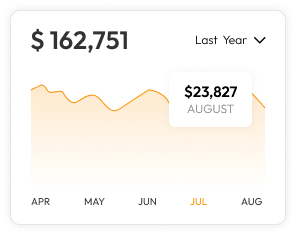
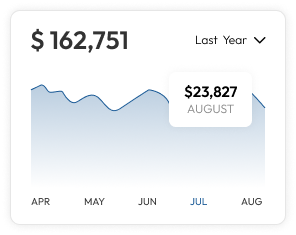
fix ui isse

Changed region(s): [[0.0912, 0.3574, 0.9122, 0.6553], [0.6385, 0.834, 0.6993, 0.8936]]

diff --git a/src/app/(website)/common/Footer/WebFooter.tsx b/src/app/(website)/common/Footer/WebFooter.tsx
@@ -7,17 +7,35 @@ import { cn } from '@core/utils/class-names';
 import NewsLetter from '@web-components/forms/NewsLetter';
 import FooterTop from './FooterTop';
 import footer_brand_logo from '../../../../../public/assets/brand_logo.png';
+import footer_bg from '../../../../../public/assets/footer_img.png';
+import arrow_white from '../../../../../public/assets/icons/arrow_white.png';
 import CldImage from '../../components/CloudinaryImageComponent';
+import InputField from '../../components/UI/InputField';
+import { useState } from 'react';
 // import dynamic from "next/dynamic";
 
 // const NewsLetter = dynamic(() => import("@/forms/NewsLetter"), {
 //   loading: () => <p>Loading...</p>,
 // });
 // #1B5A96
+
 const WebFooter = () => {
+  const [inputVal, setInputVal] = useState({ email: '' });
+  const handleChange = (e: any) => {
+    const { name, value } = e.target;
+    setInputVal({ ...inputVal, [name]: value });
+  };
   return (
     <>
-      <footer className="font- bg-footer-gradient py-12 text-white">
+      <footer className="relative py-12 text-white">
+        {/* Background Image */}
+        <Image
+          src={footer_bg}
+          alt="Footer background"
+          fill
+          priority
+          className="-z-10 object-cover"
+        />
         <MaxWidthWrapper className="px-4">
           <div
             className={cn(
@@ -27,7 +45,7 @@ const WebFooter = () => {
             <FooterTop />
           </div>
 
-          <div className="mx-auto grid grid-cols-1 gap-5 border-t pt-6 md:grid-cols-12">
+          <div className="mx-auto grid grid-cols-1 gap-5 border-t-[0.21px] border-[#FFFFFF]/50 pt-6 md:grid-cols-12">
             <div className="col-span-12 lg:col-span-4">
               <Link href="/">
                 <Image
@@ -38,7 +56,7 @@ const WebFooter = () => {
                   priority
                 />
               </Link>
-              <p className="mt-6 text-white">
+              <p className="mt-6 font-poppins text-xs font-normal text-[#FFFFFF]">
                 AdAired Digital Media is a digital marketing company located in
                 Mohali. We are a team of marketing and design experts who are
                 committed to your online growth.{' '}
@@ -49,7 +67,7 @@ const WebFooter = () => {
                     href={process.env.NEXT_PUBLIC_FACEBOOK_URL || '/'}
                     className="group/fb hover:bg-theme-orange rounded-full bg-white p-2"
                   >
-                    <Icons.Facebook className="text-[#1B5A96] group-hover/fb:text-white" />
+                    <Icons.Facebook className="text-[#1B5A96] group-hover/fb:text-[#FB9100]" />
                     <span className="sr-only">
                       Visit Adaired Digital &apos; s Facebook page
                     </span>
@@ -58,7 +76,7 @@ const WebFooter = () => {
                     href={process.env.NEXT_PUBLIC_TWITTER_URL || '/'}
                     className="group/x hover:bg-theme-orange rounded-full bg-white p-2"
                   >
-                    <Icons.Twitter className="text-[#1B5A96] group-hover/x:text-white" />
+                    <Icons.Twitter className="text-[#1B5A96] group-hover/x:text-[#FB9100]" />
                     <span className="sr-only">
                       Visit Adaired Digital &apos; s Facebook page
                     </span>
@@ -67,7 +85,7 @@ const WebFooter = () => {
                     href={process.env.NEXT_PUBLIC_INSTAGRAM_URL || '/'}
                     className="group/insta hover:bg-theme-orange rounded-full bg-white p-2"
                   >
-                    <Icons.Instagram className="text-[#1B5A96] group-hover/insta:text-white" />
+                    <Icons.Instagram className="text-[#1B5A96] group-hover/insta:text-[#FB9100]" />
                     <span className="sr-only">
                       Visit Adaired Digital &apos; s Facebook page
                     </span>
@@ -76,7 +94,7 @@ const WebFooter = () => {
                     href={process.env.NEXT_PUBLIC_LINKEDIN_URL || '/'}
                     className="group/in hover:bg-theme-orange rounded-full bg-white p-2"
                   >
-                    <Icons.LinkedIn className="text-[#1B5A96] group-hover/in:text-white" />
+                    <Icons.LinkedIn className="text-[#1B5A96] group-hover/in:text-[#FB9100]" />
                     <span className="sr-only">
                       Visit Adaired Digital &apos; s Facebook page
                     </span>
@@ -192,7 +210,23 @@ const WebFooter = () => {
                 Share your email address to subscribe to Adaired&apos;s
                 newsletter.
               </p>
-              <NewsLetter />
+              {/* <NewsLetter /> */}
+              <div className="relative mt-4">
+                <InputField
+                  className="w-full !rounded-full bg-white text-[15px] font-[300]"
+                  name={'email'}
+                  value={inputVal.email}
+                  placeholder="Email Address"
+                  handleChange={handleChange}
+                />
+                <Image
+                  src={arrow_white}
+                  alt="Send"
+                  width={35}
+                  height={35}
+                  className="absolute right-2 top-1.5 cursor-pointer rounded-full bg-[#FB9100] p-1"
+                />
+              </div>
             </div>
             <div className="col-span-12 mt-6 lg:hidden">
               <h3 className="font text-lg font-semibold tracking-wide text-white lg:text-md">
@@ -254,11 +288,11 @@ const WebFooter = () => {
         </MaxWidthWrapper>
       </footer>
       <MaxWidthWrapper>
-        <div className="py- flex flex-col-reverse items-center justify-center bg-white text-center text-black md:flex-row md:justify-between">
-          <div className="font text-xs">
+        <div className="flex flex-col-reverse items-center justify-center bg-white py-4 text-center text-black md:flex-row md:justify-center">
+          <div className="font text-xxs">
             Copyright © {new Date().getFullYear()} - AdAired Digital Media
           </div>
-          <div className="font flex gap-5 py-2 text-xs sm:gap-1 sm:bg-transparent">
+          <div className="font flex gap-5 py-2 text-xxs sm:gap-1 sm:bg-transparent">
             <Link href="/terms-and-conditions">Terms & Conditions </Link>
             <span className="hidden sm:block">/</span>
             <div className="sm:hidden">

diff --git a/src/@core/data/website/Homepage.ts b/src/@core/data/website/Homepage.ts
@@ -181,11 +181,11 @@ export const CaseStudySectionData = {
 
 export const TestimonialSectionData = {
   image: 'Static Website Images/about_main_anwqk5',
-  subTitle: 'TESTIMONIAL',
-  title: 'What Our Clients Say',
-  span: 'Turns Businesses Into Brands',
+  subTitle: 'Testimonials',
+  title: 'What Our Clients Say About Us',
+  span: '',
   description:
-    'We’re a digital agency that transforms businesses into brands. With the perfect blend of strategy and creativity.',
+    'Hear directly from the brands we’ve worked with. Real feedback, real experiences, and real results, because nothing speaks louder than the words of satisfied clients.',
   testimonials: [
     {
       image: 'Static Website Images/homepage_about2',
@@ -472,7 +472,8 @@ export const AwardsSectionData = [
 export const ContactSectionData = {
   image: 'Static Website Images/contact_us_image',
   subTitle: 'READY TO GROW?',
-  title: 'Reach Us',
+  title: 'Ready to Grow Your Brand and ',
+  span:"Stay Ahead in the Digital World?",
   description:
     'Stay ahead in the digital world with our latest tips and practical strategies. From marketing trends to SEO insights, our blog helps you grow smarter and faster.',
   contactDetails: [

diff --git a/src/app/(website)/common/Heading/index.tsx b/src/app/(website)/common/Heading/index.tsx
@@ -32,17 +32,17 @@ const Heading = ({
           <div className="md:flex` w- block gap-3">
             <div className="flex justify-center">
               <div
-                className={` ${isBgWhite ? 'border-[#000000]/50 bg-[#FFFFFF]' : 'border-[#FFFFFF]/50 bg-[#FFFFFF]'} flex w-fit justify-center gap-3 rounded-full border-[0.71px] px-[1rem] py-[0.25rem]`}
+                className={` ${isBgWhite ? 'border-[#000000]/50 bg-[#FFFFFF]' : 'border-[#FFFFFF]/50 bg-transparent'} flex w-fit justify-center gap-3 rounded-full border-[0.71px] px-[1rem] py-[0.25rem]`}
               >
                 <Image
-                  src={isBgWhite ? star : blue_star}
+                  src={star}
                   width={18}
                   height={17}
                   alt=""
                   className="mb-auto"
                 />
                 <span
-                  className={`my-auto font-montserrat text-[12px] font-normal uppercase text-[#000000]`}
+                  className={`my-auto font-montserrat text-[12px] font-normal uppercase ${isBgWhite ? 'text-[#000000]' : 'text-[#FFFFFF]'}`}
                 >
                   {subTitle}
                 </span>

diff --git a/src/app/(website)/components/home/Contact.tsx b/src/app/(website)/components/home/Contact.tsx
@@ -14,7 +14,7 @@ import ContactForm from '../forms/ContactForm';
 import ContactPageForm from '../forms/ContactPageForm';
 
 const Contact = () => {
-  const { image, subTitle, title, description } = ContactSectionData;
+  const { image, subTitle, title, span, description } = ContactSectionData;
 
   const { ref, className } = useImageAnimation({
     direction: 'left',
@@ -28,7 +28,7 @@ const Contact = () => {
           <Heading
             subTitle={subTitle}
             title={title}
-            span={''}
+            span={span}
             description={description}
             isInCenter={true}
             isBgWhite={true}

diff --git a/src/app/(website)/components/HereComponent/Banner.tsx b/src/app/(website)/components/HereComponent/Banner.tsx
@@ -110,9 +110,9 @@ const Banner = () => {
             </span>
           </div>
           <p>
-            Offering a full-service, 360° digital strategy for your business,
-            helping you rise above the noise and claim your space in the digital
-            world.
+            And that’s where Adaired Digital Media comes in. Offering a
+            full-service, 360° digital strategy for your business, helping you
+            rise above the noise and claim your space in the digital world.
           </p>
           <SaveAndCancel
             name={'Get a Quote'}

diff --git a/src/app/(website)/components/home/About.tsx b/src/app/(website)/components/home/About.tsx
@@ -7,7 +7,7 @@ import Button from '../../common/Button';
 import img from '../../../../../public/assets/images/home/aboutus.png';
 import about_graph from '../../../../../public/assets/images/home/about_graph.png';
 import Mask from '../../../../../public/assets/images/home/Mask group.png';
-import check from '../../../../../public/assets/icons/check.png';
+import check from '../../../../../public/assets/icons/blue_check.png';
 
 import { PiSealCheckBold } from 'react-icons/pi';
 import {

diff --git a/src/app/(website)/components/home/Testimonial.tsx b/src/app/(website)/components/home/Testimonial.tsx
@@ -27,7 +27,7 @@ const Testimonial = () => {
             span={''}
             description={description}
             isInCenter={true}
-            className="w-[90%] lg:w-[50%]"
+            className="w-[90%] lg:w-[65%]"
           />
         </div>
         <div className="flex justify-center">
